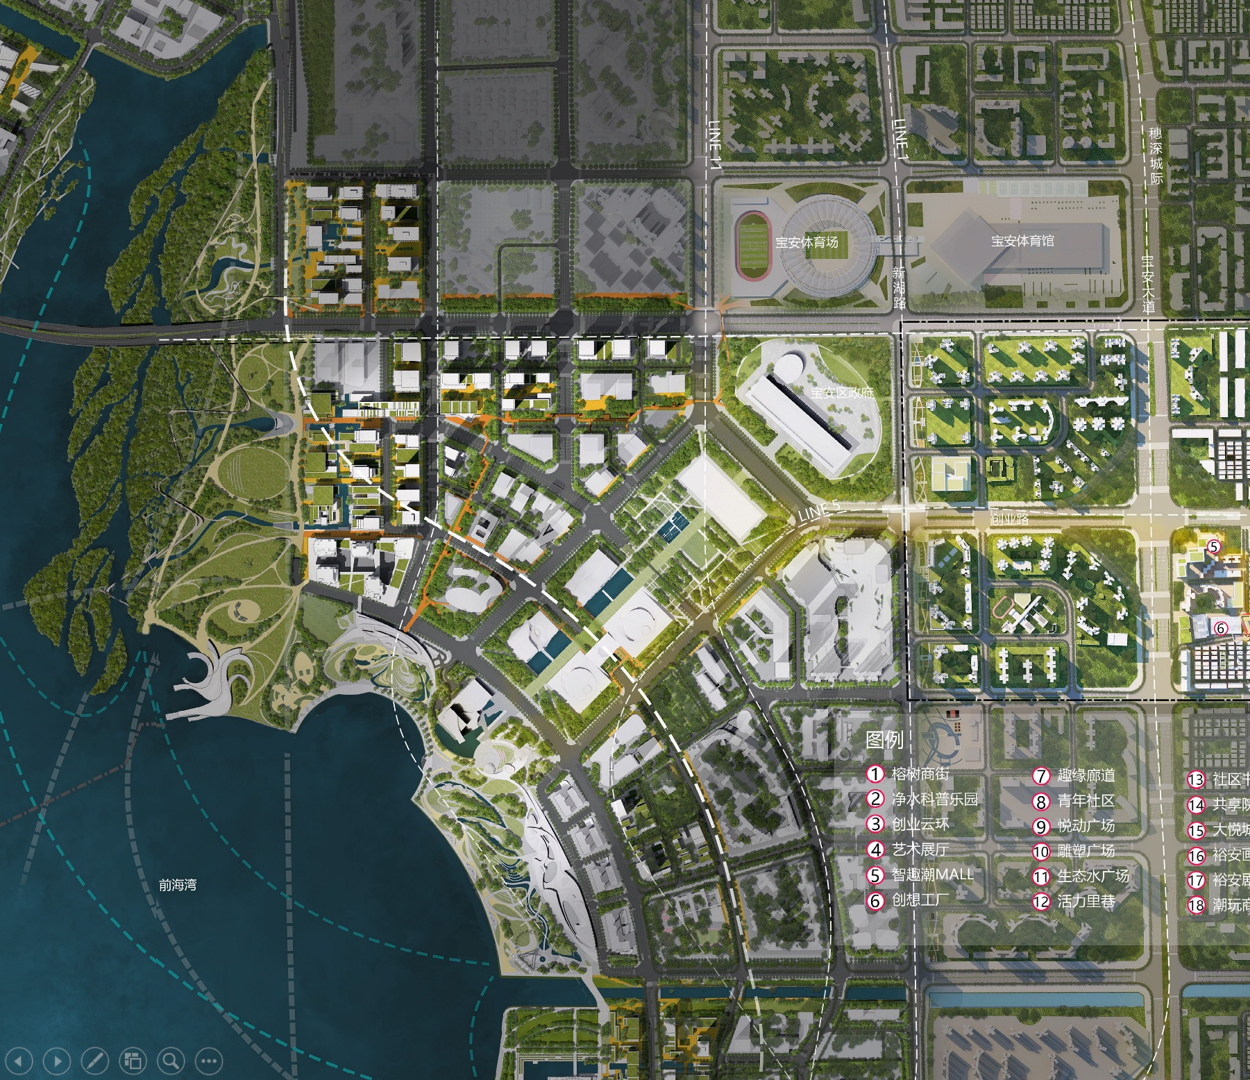
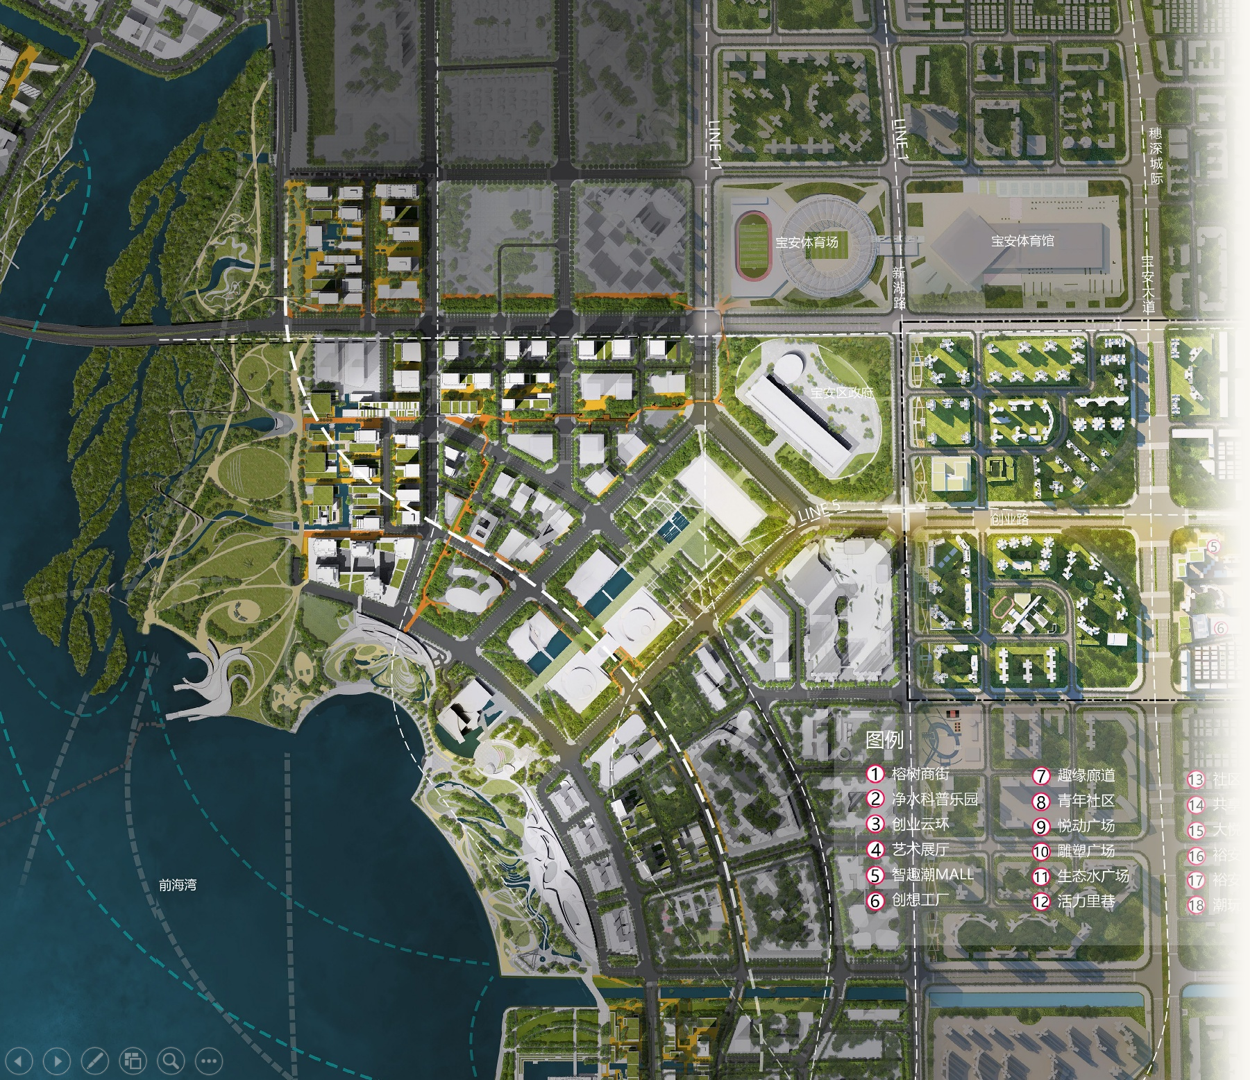
Polish four-page deck: fullscreen, tighter overview, feathered map edges, center 尖岗山
- Add 全屏 / 退出全屏 button (Fullscreen API, F key)
- Pull page-1 titles closer to the map
- Soft cream gradient + pixel feather at map|panel join
- Reframe page-4 crop so mountain mass sits in visual center

Changed region(s): [[0.936, 0.0, 1.0, 1.0]]

diff --git a/css/deck.css b/css/deck.css
@@ -35,7 +35,6 @@ html, body {
   overflow: hidden;
   background: var(--cream);
   box-shadow: 0 20px 60px rgba(0,0,0,.45);
-  /* scale typography with stage width */
   font-size: calc(min(100vw, calc(100vh * 16 / 9)) / 80);
 }
 
@@ -59,26 +58,28 @@ html, body {
 .slide-overview {
   display: grid;
   grid-template-rows: auto 1fr auto;
-  padding: 1.1em 1.6em 1.4em;
-  gap: 0.55em;
+  /* tighter: pull text toward map */
+  padding: 0.55em 1.6em 0.7em;
+  gap: 0.2em;
 }
 
 .ov-top {
   display: grid;
   grid-template-columns: 1fr 1fr 1fr;
-  gap: 1em;
+  gap: 0.85em;
   text-align: center;
-  align-items: start;
+  align-items: end;
+  padding-bottom: 0.1em;
 }
 
-.ov-col { padding: 0 0.4em; }
+.ov-col { padding: 0 0.35em; }
 
 .ov-district {
   font-family: var(--serif);
   font-size: 1.15em;
   letter-spacing: 0.06em;
   color: var(--ink);
-  line-height: 1.35;
+  line-height: 1.3;
 }
 
 .ov-en {
@@ -86,7 +87,7 @@ html, body {
   font-size: 0.72em;
   letter-spacing: 0.14em;
   color: var(--muted);
-  margin-top: 0.15em;
+  margin-top: 0.1em;
   text-transform: uppercase;
 }
 
@@ -95,8 +96,8 @@ html, body {
   font-weight: 700;
   font-size: 1.35em;
   letter-spacing: 0.04em;
-  margin-top: 0.45em;
-  line-height: 1.35;
+  margin-top: 0.3em;
+  line-height: 1.3;
   color: var(--ink);
 }
 
@@ -105,8 +106,8 @@ html, body {
   font-size: 0.78em;
   letter-spacing: 0.02em;
   color: #3a3a3a;
-  margin-top: 0.2em;
-  line-height: 1.3;
+  margin-top: 0.12em;
+  line-height: 1.25;
 }
 
 .ov-map {
@@ -116,6 +117,7 @@ html, body {
   align-items: center;
   justify-content: center;
   overflow: hidden;
+  margin: 0;
 }
 
 .ov-map img {
@@ -130,7 +132,8 @@ html, body {
 
 .ov-bottom {
   text-align: center;
-  padding-top: 0.2em;
+  padding-top: 0.05em;
+  padding-bottom: 0.15em;
 }
 
 .ov-footer-cn {
@@ -138,7 +141,7 @@ html, body {
   font-weight: 700;
   font-size: 2.05em;
   letter-spacing: 0.18em;
-  line-height: 1.25;
+  line-height: 1.2;
 }
 
 .ov-footer-en {
@@ -146,7 +149,7 @@ html, body {
   font-size: 0.85em;
   letter-spacing: 0.08em;
   color: #444;
-  margin-top: 0.25em;
+  margin-top: 0.15em;
 }
 
 /* ---------- District pages (2–4) ---------- */
@@ -169,6 +172,34 @@ html, body {
   display: block;
   user-select: none;
   -webkit-user-drag: none;
+}
+
+/* Page 4: keep mountain mass centered */
+.slide-district[data-page="4"] .map-pane img {
+  object-position: 72% 48%;
+  transform: scale(1.06);
+  transform-origin: 70% 48%;
+}
+
+/* Soft cream feather between map and side panel (all district pages) */
+.map-pane::after {
+  content: "";
+  position: absolute;
+  top: 0;
+  right: 0;
+  bottom: 0;
+  width: 7.5%;
+  min-width: 56px;
+  max-width: 110px;
+  pointer-events: none;
+  z-index: 3;
+  background: linear-gradient(
+    90deg,
+    rgba(249, 247, 242, 0) 0%,
+    rgba(249, 247, 242, 0.35) 42%,
+    rgba(249, 247, 242, 0.82) 78%,
+    rgba(249, 247, 242, 1) 100%
+  );
 }
 
 .side-panel {
@@ -308,4 +339,40 @@ html, body {
   padding: 6px 10px;
   border-radius: 6px;
   pointer-events: none;
+}
+
+/* Fullscreen control */
+.fs-btn {
+  position: absolute;
+  top: 14px;
+  right: 14px;
+  z-index: 30;
+  font-family: var(--sans);
+  font-size: 13px;
+  letter-spacing: 0.12em;
+  color: var(--ink);
+  background: rgba(249, 247, 242, 0.88);
+  border: 1px solid rgba(22, 22, 22, 0.12);
+  border-radius: 8px;
+  padding: 8px 14px;
+  cursor: pointer;
+  backdrop-filter: blur(8px);
+  box-shadow: 0 4px 16px rgba(0,0,0,.12);
+  pointer-events: auto;
+  transition: background 0.2s ease, transform 0.15s ease;
+}
+
+.fs-btn:hover {
+  background: #fff;
+  transform: translateY(-1px);
+}
+
+.fs-btn:active {
+  transform: translateY(0);
+}
+
+/* When browser is fullscreen, stage can fill more of the screen */
+:fullscreen .viewport,
+:-webkit-full-screen .viewport {
+  background: #0d0d0d;
 }

diff --git a/js/deck.js b/js/deck.js
@@ -6,6 +6,7 @@
   const slides = [...document.querySelectorAll('.slide')];
   const dots = [...document.querySelectorAll('.dot')];
   const pageLabel = document.getElementById('pageLabel');
+  const fsBtn = document.getElementById('fsBtn');
 
   const wait = (ms) => new Promise((r) => setTimeout(r, ms));
 
@@ -50,6 +51,32 @@
     return fadeTo(target);
   }
 
+  function isFullscreen() {
+    return !!(document.fullscreenElement || document.webkitFullscreenElement);
+  }
+
+  function updateFsLabel() {
+    if (!fsBtn) return;
+    fsBtn.textContent = isFullscreen() ? '退出全屏' : '全屏';
+    fsBtn.setAttribute('aria-label', fsBtn.textContent);
+  }
+
+  async function toggleFullscreen() {
+    try {
+      if (!isFullscreen()) {
+        const el = document.documentElement;
+        if (el.requestFullscreen) await el.requestFullscreen();
+        else if (el.webkitRequestFullscreen) el.webkitRequestFullscreen();
+      } else {
+        if (document.exitFullscreen) await document.exitFullscreen();
+        else if (document.webkitExitFullscreen) document.webkitExitFullscreen();
+      }
+    } catch (err) {
+      console.warn('fullscreen failed', err);
+    }
+    updateFsLabel();
+  }
+
   document.addEventListener('keydown', (e) => {
     if (e.key === 'ArrowRight' || e.key === ' ' || e.key === 'PageDown') {
       e.preventDefault();
@@ -63,6 +90,9 @@
     } else if (e.key === 'End') {
       e.preventDefault();
       goTo(TOTAL - 1);
+    } else if (e.key === 'f' || e.key === 'F') {
+      e.preventDefault();
+      toggleFullscreen();
     }
   });
 
@@ -72,6 +102,15 @@
       if (!Number.isNaN(t)) goTo(t);
     });
   });
+
+  if (fsBtn) {
+    fsBtn.addEventListener('click', (e) => {
+      e.stopPropagation();
+      toggleFullscreen();
+    });
+  }
+  document.addEventListener('fullscreenchange', updateFsLabel);
+  document.addEventListener('webkitfullscreenchange', updateFsLabel);
 
   let touchX = null;
   document.addEventListener(
@@ -94,4 +133,5 @@
   );
 
   showSlide(0, { instant: true });
+  updateFsLabel();
 })();

diff --git a/index.html b/index.html
@@ -98,6 +98,8 @@
         </aside>
       </section>
 
+      <button type="button" class="fs-btn" id="fsBtn" aria-label="全屏">全屏</button>
+
       <div class="hud">
         <div class="dots" role="tablist" aria-label="页面">
           <button class="dot is-on" data-to="0" aria-label="第1页 总览"></button>
